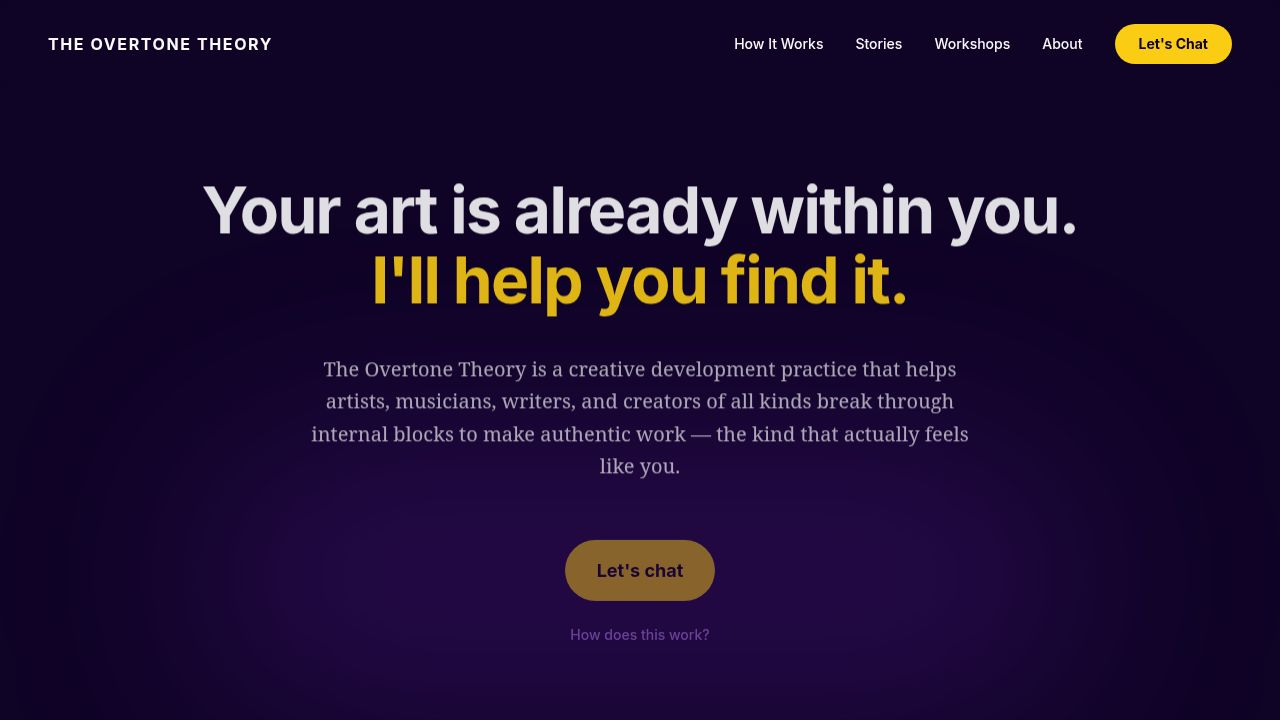
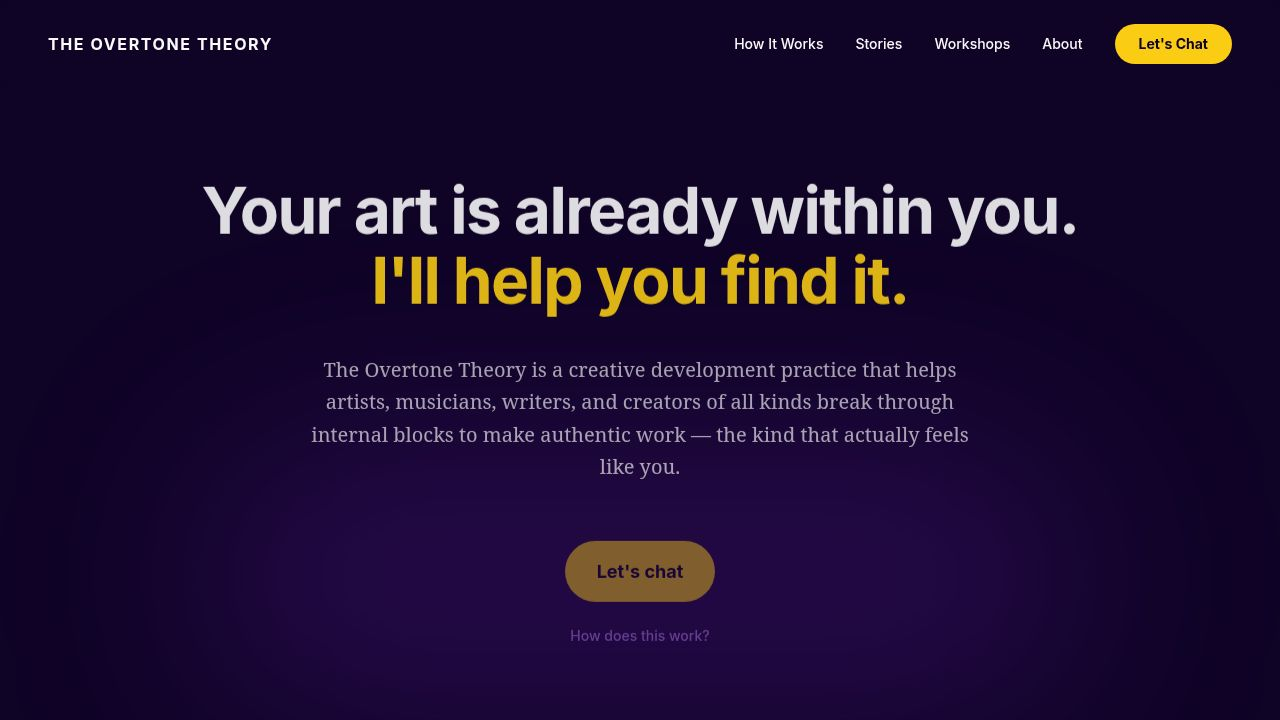
Update website URL and remove payment information from footer
Update og:url and twitter:image meta tags in index.html to use overtonetheory.com. Remove Venmo/CashApp payment information from the footer in Home.tsx.

Replit-Commit-Author: Agent
Replit-Commit-Session-Id: 3874e651-f1d8-4237-907a-3521cb5cd9f1
Replit-Commit-Checkpoint-Type: full_checkpoint
Replit-Commit-Event-Id: c08a346d-edb3-408d-965d-eed2919b4338
Replit-Commit-Screenshot-Url: https://storage.googleapis.com/screenshot-production-us-central1/efff9e00-908e-4701-9bc5-ab9e1753c11f/3874e651-f1d8-4237-907a-3521cb5cd9f1/rfLUWN9
Replit-Helium-Checkpoint-Created: true

diff --git a/artifacts/overtone-theory/index.html b/artifacts/overtone-theory/index.html
@@ -8,10 +8,10 @@
     <meta property="og:type" content="website" />
     <meta property="og:title" content="The Overtone Theory | Creative Development Practice" />
     <meta property="og:description" content="The Overtone Theory is a creative development practice that helps artists, musicians, writers, and creators break through internal blocks to make authentic work." />
-    <meta property="og:url" content="https://overtonetheory.art" />
-    <meta property="og:image" content="https://overtonetheory.art/opengraph.jpg" />
+    <meta property="og:url" content="https://overtonetheory.com" />
+    <meta property="og:image" content="https://overtonetheory.com/opengraph.jpg" />
     <meta name="twitter:card" content="summary_large_image" />
-    <meta name="twitter:image" content="https://overtonetheory.art/opengraph.jpg" />
+    <meta name="twitter:image" content="https://overtonetheory.com/opengraph.jpg" />
     <meta name="twitter:title" content="The Overtone Theory | Creative Development Practice" />
     <meta name="twitter:description" content="The Overtone Theory is a creative development practice that helps artists, musicians, writers, and creators break through internal blocks to make authentic work." />
     <link rel="icon" type="image/svg+xml" href="/favicon.svg" />

diff --git a/artifacts/overtone-theory/src/pages/Home.tsx b/artifacts/overtone-theory/src/pages/Home.tsx
@@ -286,8 +286,7 @@ export default function Home() {
       {/* 13. FOOTER */}
       <footer className="bg-abyss text-clean-white/60 py-12 px-6 border-t border-clean-white/10">
         <div className="max-w-7xl mx-auto flex flex-col md:flex-row items-center justify-between gap-6">
-          <p className="font-sans text-sm">© MIDWID 2026 | overtonetheory.art</p>
-          <p className="font-sans text-sm text-soft-violet/80 text-center">Payment: Venmo / CashApp (for workshop PWYW)</p>
+          <p className="font-sans text-sm">© MIDWID 2026 | overtonetheory.com</p>
           <a href="#" className="text-clean-white/60 hover:text-signal-gold transition-colors" aria-label="Instagram">
             <Instagram size={20} />
           </a>